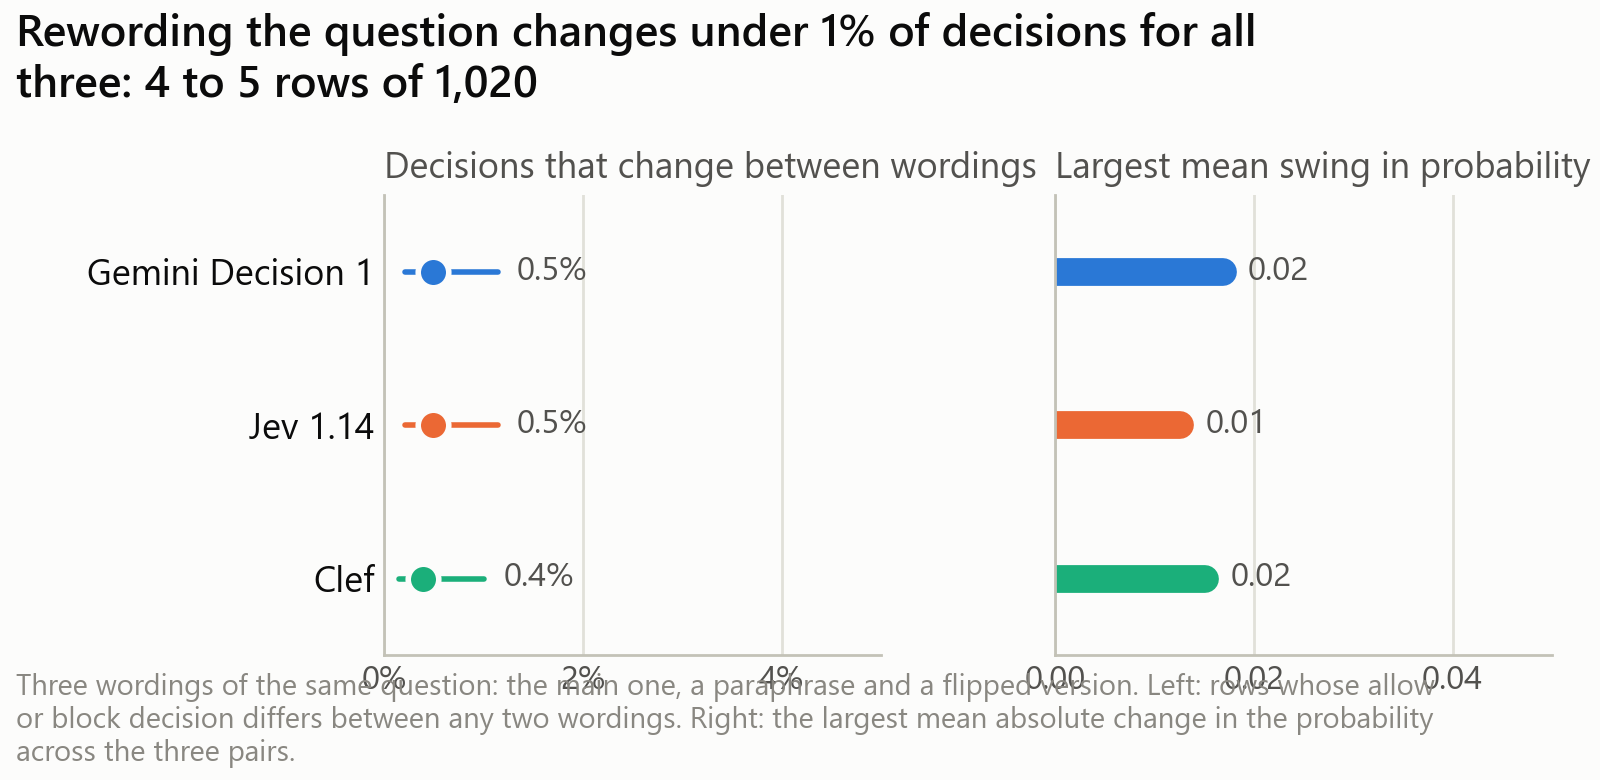
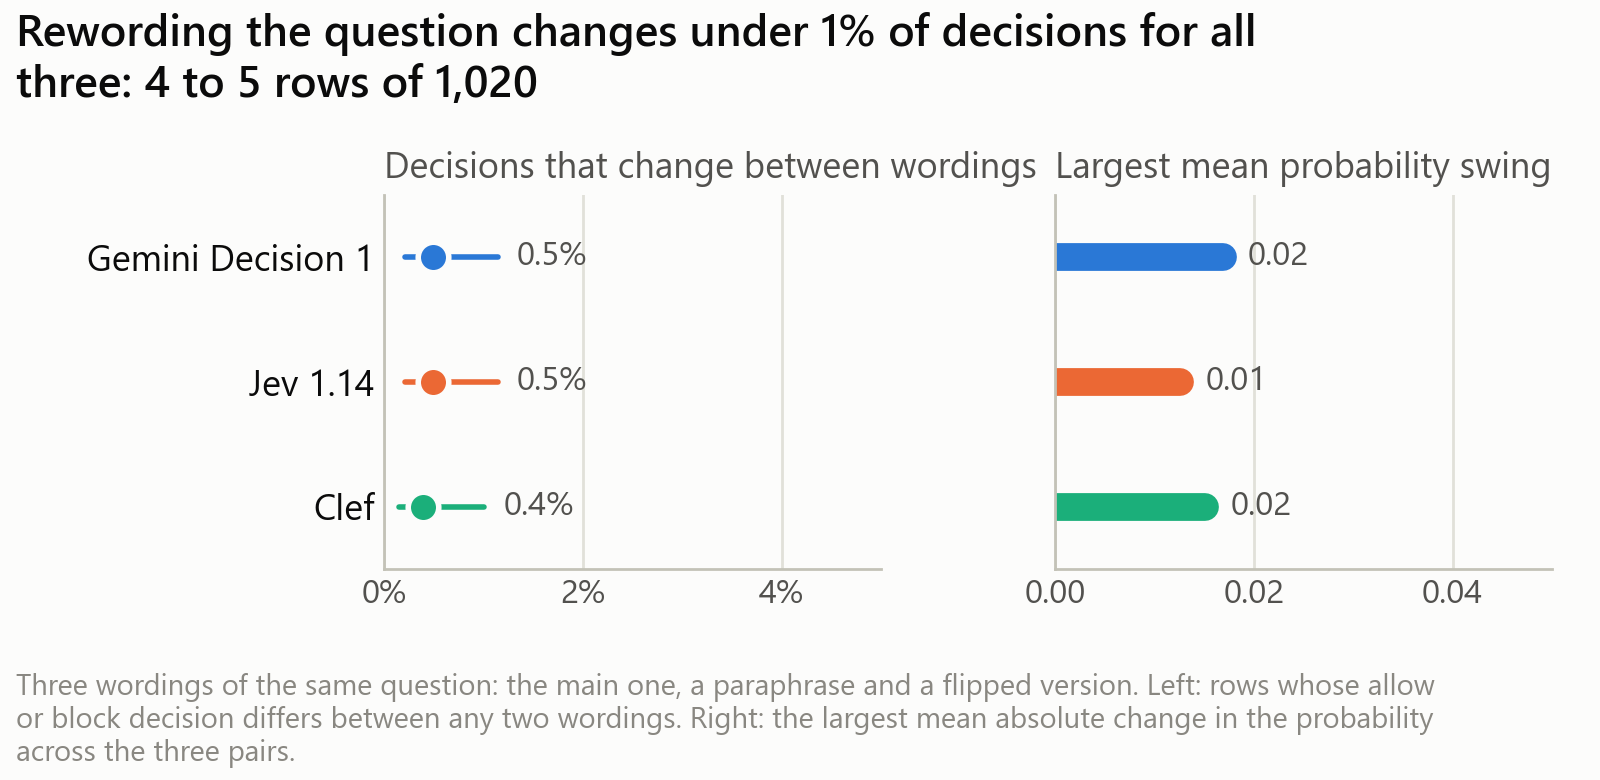
Charts: label placement near the axis, caption spacing, cheapest-point label

diff --git a/src/charts.py b/src/charts.py
@@ -213,6 +213,8 @@ def chart_fooling(tables, out_dir, title) -> Path:
     fig, axes = plt.subplots(1, len(models), figsize=(FIG_W, 4.2), sharey=True, sharex=True)
     axes = list(axes) if len(models) > 1 else [axes]
     hi_values = []
+    visible = fool[fool.view == "B"]
+    xmax = min(1.0, max(float(visible.wrong_hi.max()) * 1.45, 0.05)) if len(visible) else 0.1
     for ax, m in zip(axes, models):
         sub = fool[fool.model_key == m]
         for i, g in enumerate(groups):
@@ -234,14 +236,19 @@ def chart_fooling(tables, out_dir, title) -> Path:
                 ax.annotate(pct(high), (high, i), xytext=(10, 0), textcoords="offset points",
                             ha="left", va="center", fontsize=11, color=INK2)
                 if high - low > 0.004:
-                    ax.annotate(pct(low), (low, i), xytext=(-10, 0), textcoords="offset points",
-                                ha="right", va="center", fontsize=11, color=INK2)
+                    if low > 0.12 * xmax:
+                        ax.annotate(pct(low), (low, i), xytext=(-10, 0), textcoords="offset points",
+                                    ha="right", va="center", fontsize=11, color=INK2)
+                    else:
+                        ax.annotate(pct(low), (low, i), xytext=(0, -11), textcoords="offset points",
+                                    ha="center", va="top", fontsize=11, color=INK2)
         ax.set_title(MODEL_NAMES[m], loc="left", color=INK2, weight="normal")
         ax.set_yticks(range(len(groups)))
         ax.set_yticklabels([GROUP_NAMES[g] for g in groups])
-        ax.set_ylim(len(groups) - 0.5, -0.7)
+        ax.set_ylim(len(groups) - 0.3, -0.7)
         _style(ax)
-    _xlim_pct(axes[0], hi_values or [0.1])
+    axes[0].set_xlim(0, xmax)
+    axes[0].xaxis.set_major_formatter(PercentFormatter(1.0, decimals=0))
     handles = [Line2D([], [], marker="o", color=SURFACE, markeredgecolor=INK2, markeredgewidth=2, markersize=9, linestyle="none"),
                Line2D([], [], marker="o", color=INK2, markersize=10, linestyle="none")]
     fig.legend(handles, ["Planted text hidden (View A)", "Planted text visible (View B)"], loc="lower right",
@@ -269,13 +276,13 @@ def chart_rewording(tables, out_dir, title) -> Path:
         value = float(worst.get(m, 0.0))
         axes[1].plot([0, value], [i, i], color=MODEL_COLOURS[m], linewidth=10, solid_capstyle="round", zorder=2)
         axes[1].annotate(f"{value:.2f}", (value, i), xytext=(9, 0), textcoords="offset points", va="center", fontsize=12, color=INK2)
-    axes[1].set_title("Largest mean swing in probability", loc="left", color=INK2, weight="normal", fontsize=13)
+    axes[1].set_title("Largest mean probability swing", loc="left", color=INK2, weight="normal", fontsize=13)
     axes[1].set_xlim(0, max(float(worst.max()) * 1.6, 0.05))
     _style(axes[1])
     return _finish(fig, out_dir / "rewording.png", title,
                    "Three wordings of the same question: the main one, a paraphrase and a flipped version. Left: rows whose "
                    "allow or block decision differs between any two wordings. Right: the largest mean absolute change in the "
-                   "probability across the three pairs.", left=0.24)
+                   "probability across the three pairs.", left=0.24, bottom=0.27)
 
 
 def chart_speed_cost(tables, out_dir, title) -> Path:
@@ -284,12 +291,15 @@ def chart_speed_cost(tables, out_dir, title) -> Path:
     cost = tables["cost"].set_index("model_key")
     models = [m for m in MODEL_ORDER if m in pooled.index and m in cost.index]
     fig, ax = plt.subplots(figsize=(FIG_W, 4.4))
+    cheapest = cost.loc[models, "usd_per_1000_decisions"].idxmin()
     for m in models:
         x, p95, y = pooled.loc[m, "median_ms"], pooled.loc[m, "p95_ms"], cost.loc[m, "usd_per_1000_decisions"]
         ax.plot([x, p95], [y, y], color=MODEL_COLOURS[m], linewidth=2, solid_capstyle="round", zorder=1, alpha=0.6)
         ax.plot([x], [y], marker="o", markersize=13, color=MODEL_COLOURS[m], markeredgecolor=SURFACE, markeredgewidth=2, zorder=3)
-        ax.annotate(f"{MODEL_NAMES[m]}\n{x:.0f} ms median, ${y:.3f}", (p95, y), xytext=(9, 0), textcoords="offset points",
-                    ha="left", va="center", fontsize=11.5, color=INK2, linespacing=1.2)
+        below = m == cheapest and len(models) > 1
+        ax.annotate(f"{MODEL_NAMES[m]}\n{x:.0f} ms median, ${y:.3f}", (p95, y), xytext=(9, -4 if below else 0),
+                    textcoords="offset points", ha="left", va="top" if below else "center", fontsize=11.5, color=INK2,
+                    linespacing=1.2)
     ax.set_xlabel("Latency per decision, ms (dot: median; line: to the 95th percentile)")
     ax.set_ylabel("Cost per 1,000 decisions, USD")
     ax.set_xlim(0, max(pooled.p95_ms) * 1.5)
